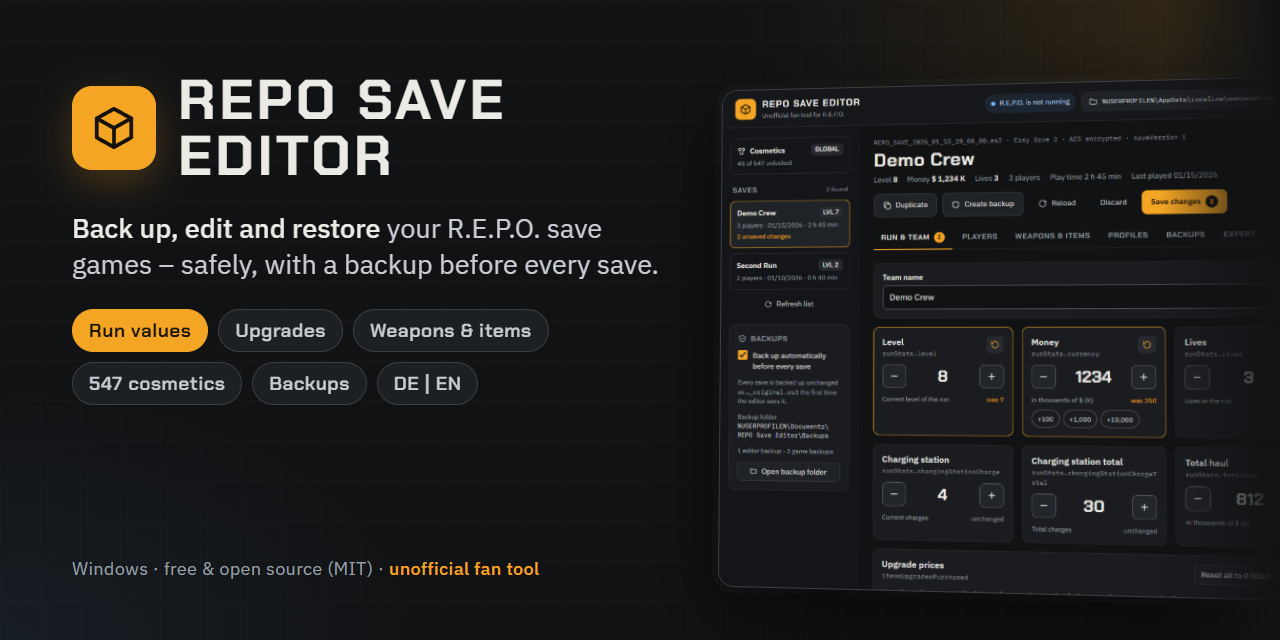
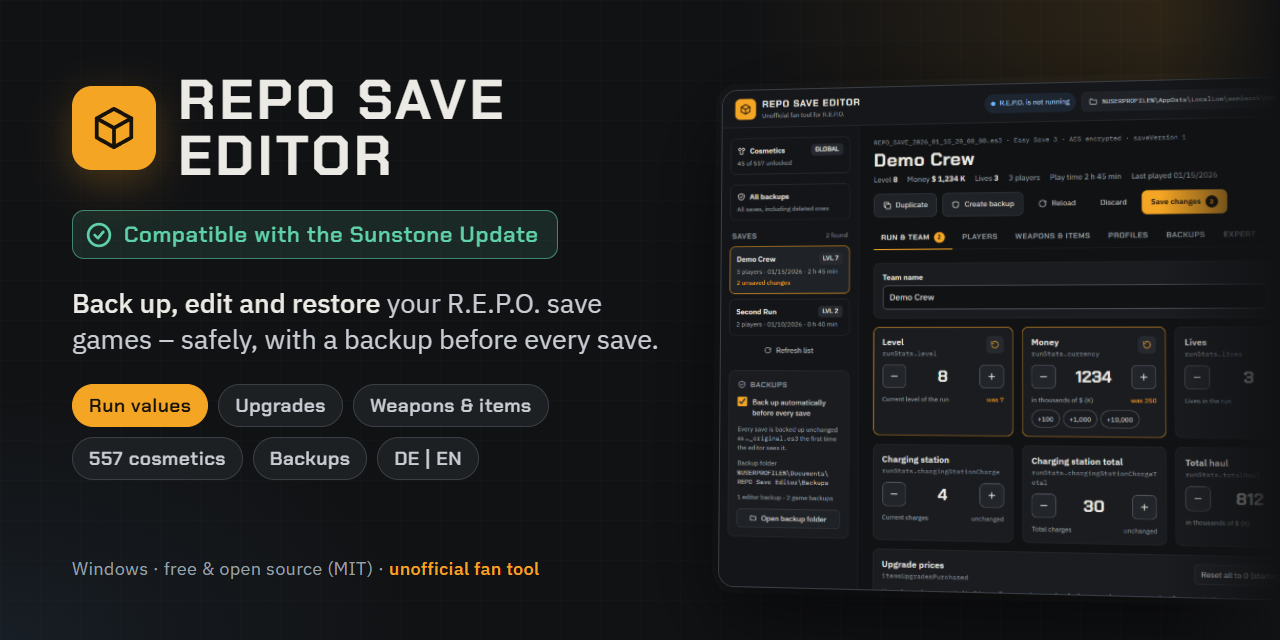
Social preview with 557 cosmetics and the Sunstone Update
The link preview of the project page still showed 547 cosmetics; it now shows 557 and "Compatible with the Sunstone Update". A code comment no longer names a fixed number.

Changed region(s): [[0.0312, 0.3438, 0.5312, 0.75], [0.5625, 0.2812, 0.6562, 0.8438]]

diff --git a/lib/server.js b/lib/server.js
@@ -583,7 +583,7 @@ function createEditor(opts) {
     const ints = k => (json[k] && Array.isArray(json[k].value) ? json[k].value.filter(Number.isInteger) : []);
     return { unlocks: ints('cosmeticUnlocks'), equipped: ints('cosmeticEquipped').filter(id => id >= 0), tokens: ints('cosmeticTokens').length };
   }
-  /** Unlocked cosmetics the editor knows, matching "x of 547" in the UI (unknown ids are kept, not counted). */
+  /** Unlocked cosmetics the editor knows, matching "x of <number of cosmetics>" in the UI (unknown ids are kept, not counted). */
   const knownUnlocked = json => new Set(metaSummary(json).unlocks.filter(id => id >= 0 && id < cosmetics.list.length)).size;
   function listMetaBackups() {
     const out = [];
